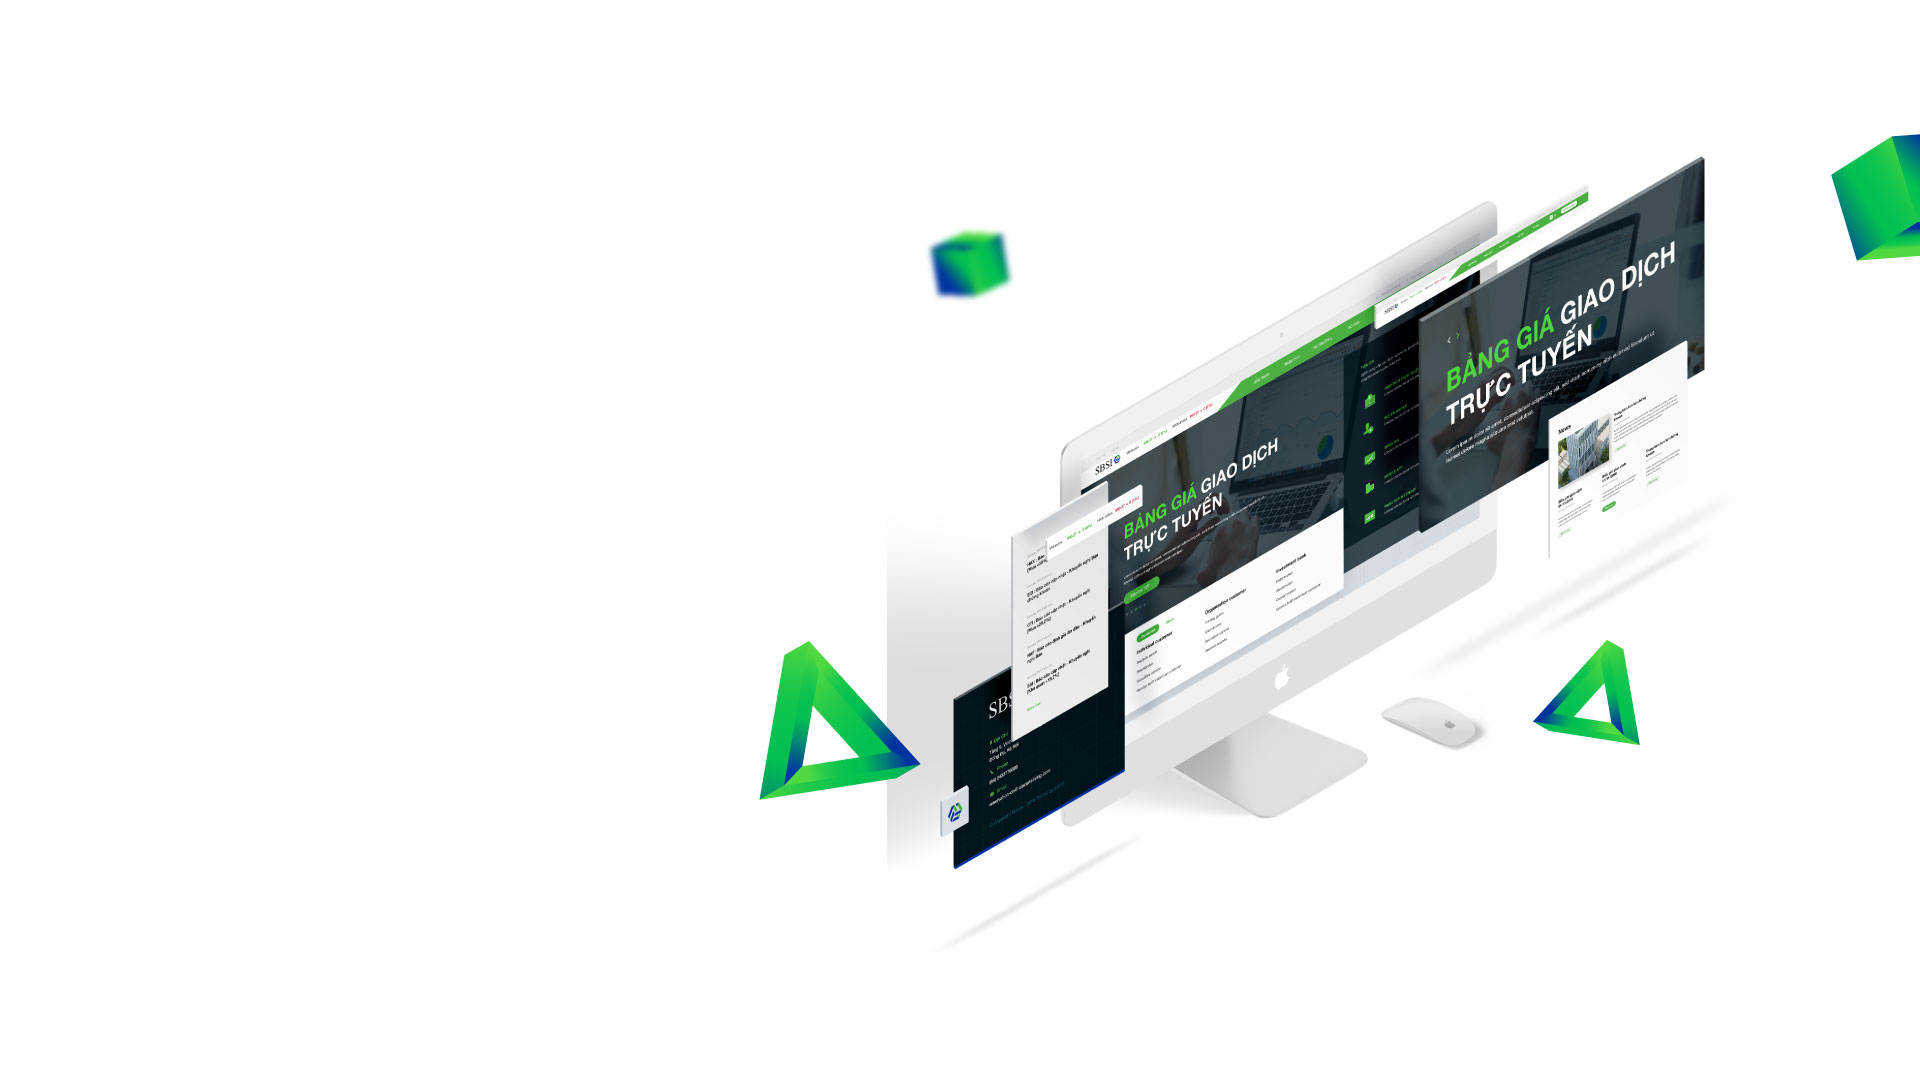
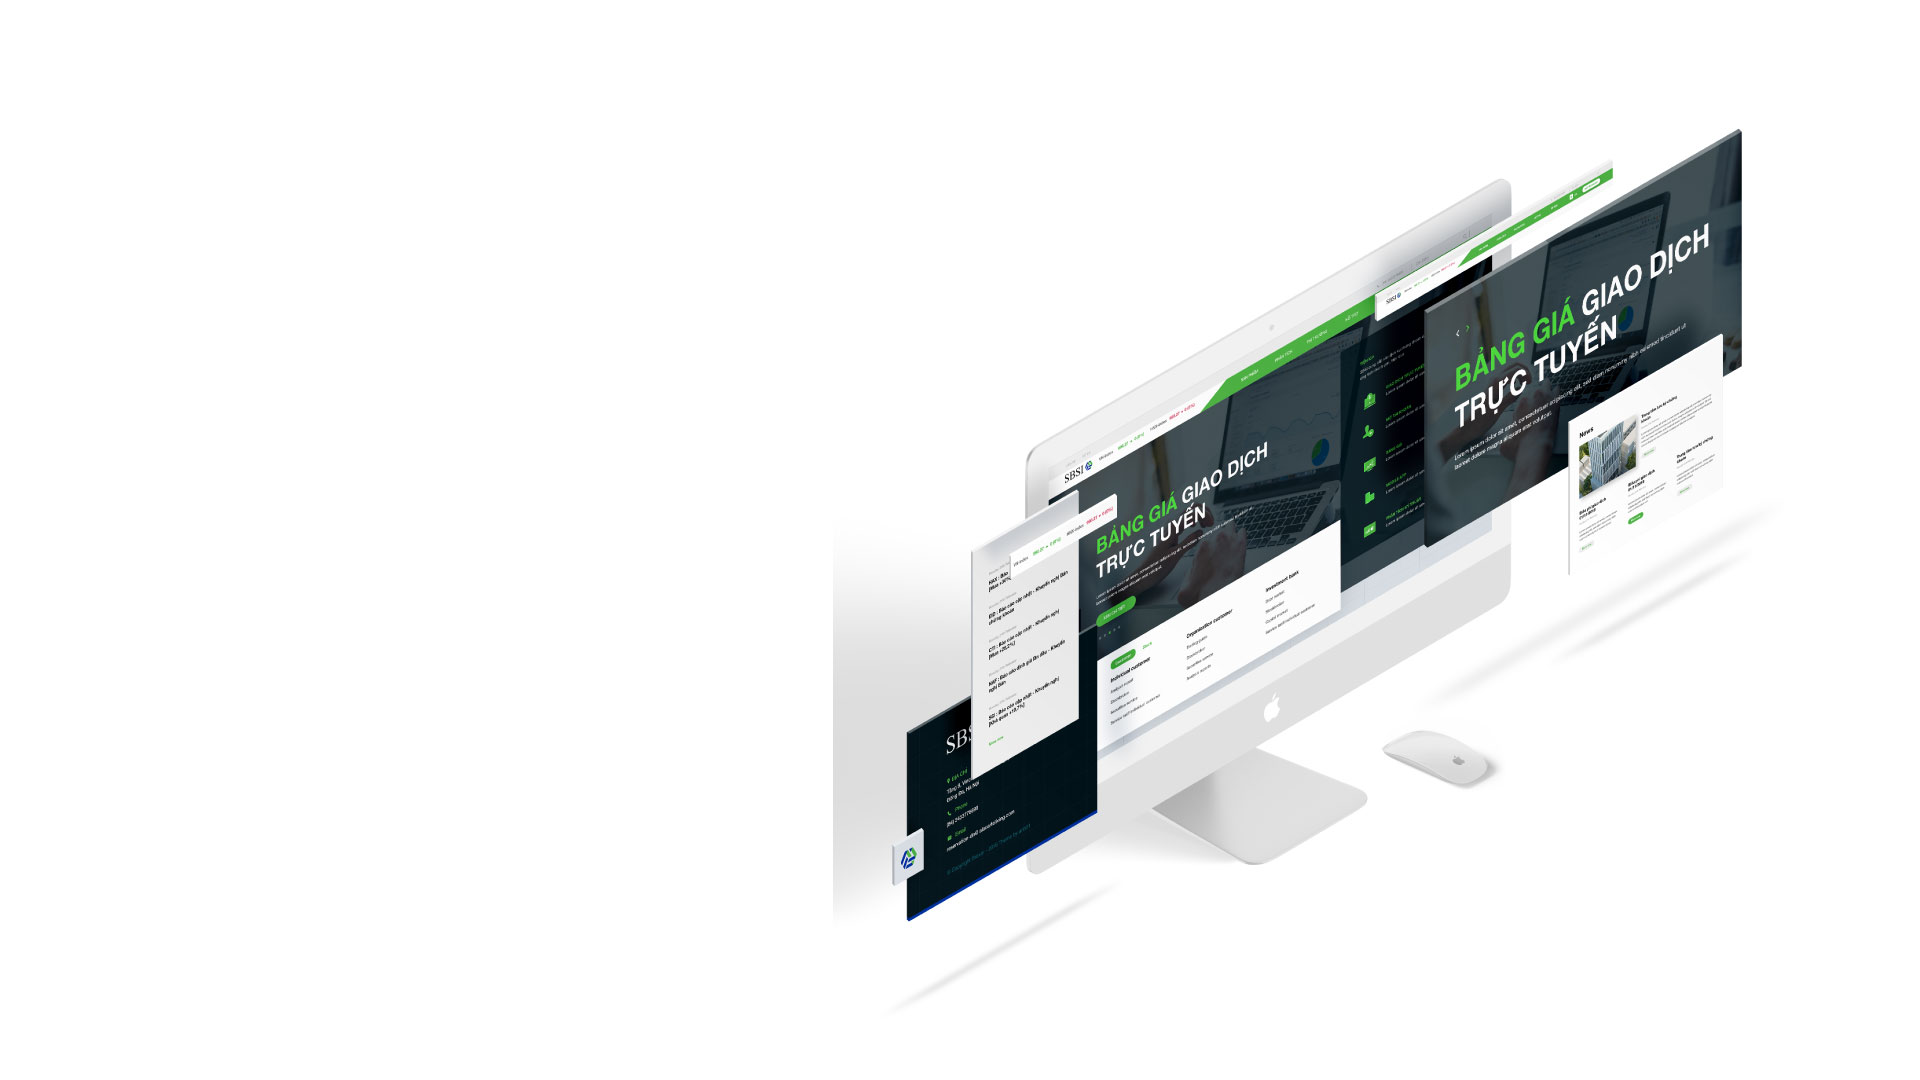
update

diff --git a/index.html b/index.html
@@ -88,6 +88,19 @@
                                         </button>
                                     </div>
                                 </div>
+                                <div class="icon-itemx icon-item1">
+                                    <img src="img/icon-animation1.png" alt="image">
+                                </div>
+                                <div class="icon-item icon-item2">
+                                    <img src="img/icon-animation2.png" alt="image">
+                                </div>
+                                <div class="icon-itemx icon-item3">
+                                    <img src="img/icon-animation3.png" alt="image">
+                                </div>
+                                <div class="icon-item icon-item4">
+                                    <img src="img/icon-animation4.png" alt="image">
+                                </div>
+
                             </div>
                             <a class="li-head ss-link" href="javascript:;" ><img src="img/banner-1.jpg" class="w-100" alt="ảnh"></a>
                         </div>
@@ -122,6 +135,19 @@
                                         </button>
                                     </div>
                                 </div>
+                                <div class="icon-itemx icon-item5">
+                                    <img src="img/icon-animation5.png" alt="image">
+                                </div>
+                                <div class="icon-item icon-item6">
+                                    <img src="img/icon-animation7.png" alt="image">
+                                </div>
+                                <div class="icon-item icon-item7">
+                                    <img src="img/icon-animation6.png" alt="image">
+                                </div>
+                                <div class="icon-itemx icon-item8">
+                                    <img src="img/icon-animation5.png" alt="image">
+                                </div>
+
                             </div>
                             <a class="li-head ss-link" href="javascript:;" ><img src="img/banner-2.jpg" class="w-100" alt="ảnh"></a>
                         </div>
@@ -324,6 +350,59 @@
             fullpage_api.moveSectionDown();
         });
     </script>
+    <script>
+        var lFollowX = 0,
+            lFollowY = 0,
+            x = 0,
+            y = 0,
+            friction = 1 / 30;
 
+        function moveBackground() {
+            x += (lFollowX - x) * friction;
+            y += (lFollowY - y) * friction;
+
+            //  translate = 'translateX(' + x + 'px, ' + y + 'px)';
+            translate = 'translateX(' + x + 'px) translateY(' + y +'px)';
+
+            $('.icon-item').css({
+                '-webit-transform': translate,
+                '-moz-transform': translate,
+                'transform': translate
+            });
+            $('.icon-itemx').css({
+                '-webit-transform': translate,
+                '-moz-transform': translate,
+                'transform': translate
+            });
+
+
+            window.requestAnimationFrame(moveBackground);
+        }
+
+        $(window).on('mousemove click', function(e) {
+
+            // var isHovered = $('.icon-item:hover').length > 0;
+            // console.log(isHovered);
+            // if(!isHovered) {
+            //     var lMouseX = Math.max(-200, Math.min(200, $(window).width() / 2 - e.clientX)),
+            //         lMouseY = Math.max(-200, Math.min(200, $(window).height() / 2 - e.clientY));
+            //
+            //     lFollowX = (20 * lMouseX) / 100;
+            //     lFollowY = (10 * lMouseY) / 100;
+            // }
+            var isHoveredx = $('.icon-itemx:hover').length > 0;
+            console.log(isHoveredx);
+            if(!isHoveredx) {
+                var lMouseXx = Math.max(-200, Math.min(200, $(window).width() / 2 - e.clientX)),
+                    lMouseYx = Math.max(-200, Math.min(200, $(window).height() / 2 - e.clientY));
+
+                lFollowX = (20 * lMouseXx) / 200;
+                lFollowY = (10 * lMouseYx) / 200;
+            }
+
+        });
+
+        moveBackground();
+    </script>
 </body>
 </html>

diff --git a/sass/components/_slider.scss b/sass/components/_slider.scss
@@ -173,6 +173,7 @@
     }
   }
 }
+//style carousel
 
 .owl-carousel .owl-nav .owl-prev, .owl-carousel .owl-nav .owl-next,.owl-carousel .owl-nav .owl-prev:hover, .owl-carousel .owl-nav .owl-next:hover{
   color: #000;
@@ -189,3 +190,45 @@
   width: auto;
   text-align: left;
 }
+
+.icon-item{
+  position: absolute;
+}
+.icon-itemx{
+  position: absolute;
+}
+
+.icon-item1{
+  top: 69%;
+  right: 56%;
+}
+.icon-item2{
+  top: 19%;
+  right: 50%;
+}
+.icon-item3{
+  top: 13%;
+  right: -2%;
+}
+.icon-item4{
+  top: 64%;
+  right: 17%;
+}
+.icon-item5{
+  top: 75%;
+  right: 56%;
+}
+.icon-item6{
+  top: 21%;
+  right: 46%;
+}
+.icon-item7{
+  top: 69%;
+  right: 53%;
+
+}
+.icon-item8{
+  top: 23%;
+  right: -3%;
+}
+

diff --git a/sass/main.css b/sass/main.css
@@ -639,4 +639,42 @@ section {
   width: auto;
   text-align: left; }
 
+.icon-item {
+  position: absolute; }
+
+.icon-itemx {
+  position: absolute; }
+
+.icon-item1 {
+  top: 69%;
+  right: 56%; }
+
+.icon-item2 {
+  top: 19%;
+  right: 50%; }
+
+.icon-item3 {
+  top: 13%;
+  right: -2%; }
+
+.icon-item4 {
+  top: 64%;
+  right: 17%; }
+
+.icon-item5 {
+  top: 75%;
+  right: 56%; }
+
+.icon-item6 {
+  top: 21%;
+  right: 46%; }
+
+.icon-item7 {
+  top: 69%;
+  right: 53%; }
+
+.icon-item8 {
+  top: 23%;
+  right: -3%; }
+
 /*# sourceMappingURL=main.css.map */
